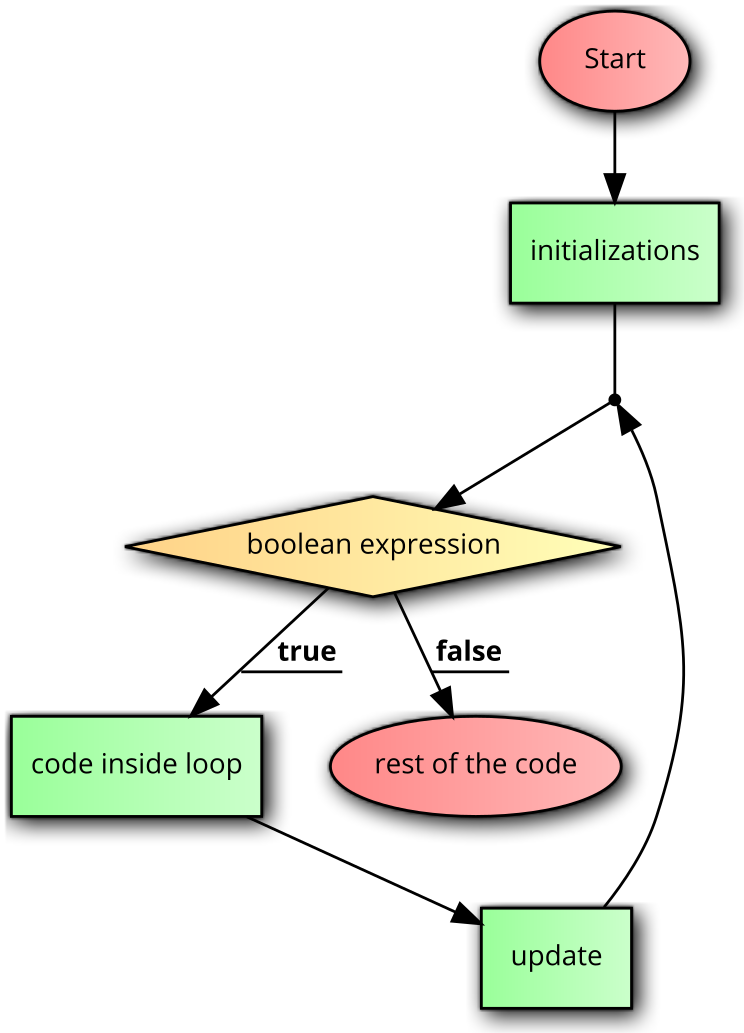
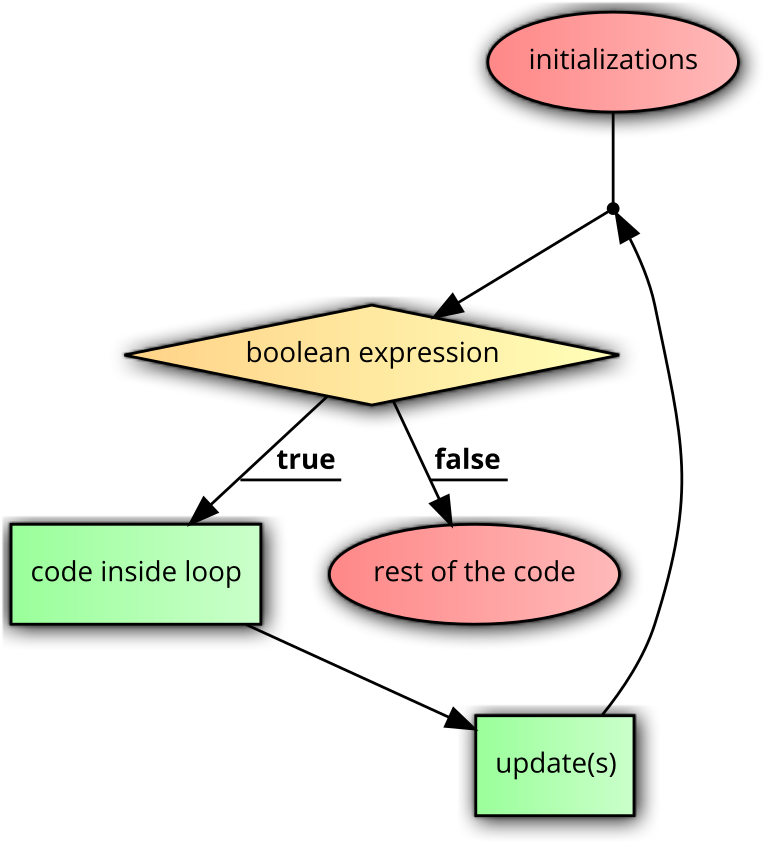
loops markdown updated. real-life scenarios to be completed

diff --git a/2 - loops/loops.md b/2 - loops/loops.md
@@ -7,7 +7,7 @@ Loops are similar to conditions except that after every iteration of the loop, t
 
 ```java
 while(boolean expression) {
-	loop code
+	code inside loop
 }
 rest of the code
 ```
@@ -17,175 +17,225 @@ rest of the code
 Example:
 
 ```java
-int x = 10;
-int result = 5;
-if(x > 8) {
-	result = result + 1;
+int a = 6;
+int result = 1;
+while(a > 0) {
+	result = result * a;
+	a = a - 1;
 }
-print(result);
+println(result);
 ```
 
-<center><img src="ifExample.png" style="width: 300px;"/></center>
+<center><img src="whileExample.png" style="width: 300px;"/></center>
 
 
-The above code executes the conditional code, increasing `result` by 1 and displaying the value 6.
+The above code executes the loop 6 times (for `a` = 6,5,4,3,2,1 but not for 0) each time multiplying the current value of `a` into `result` and the final value of `result` is 6\*5\*4\*3\*2\*1 = 720. 
 
-## An `if-else` condition
-An `if-else` condition executes the if-block if the expression is evaluated to `true` and the else-block if the expression is evaluated to `false`. The rest of code is executes after either case.
+There is a better way of tracing loops known as logic table construction. The logic table for the above example is given below.
+
+| a 	| a > 0 	| result      	|
+|---	|-------	|-------------	|
+| 6 	| true  	| 1\*6 = 6     	|
+| 5 	| true  	| 6\*5 = 30    	|
+| 4 	| true  	| 30\*4 = 120  	|
+| 3 	| true  	| 120\*3 = 360 	|
+| 2 	| true  	| 360\*2 = 720 	|
+| 1 	| true  	| 720\*1 = 720 	|
+| 0 	| false 	|             	|
+
+## Guidelines for constructing a logic table
+
+While constructing a logic table, one is strongly encouraged to follow the following steps:
+
+1. Identify all variables involved in the boolean expression in the loop header.
+2. Create columns for each of the variables identified in step 1.
+3. Create a column for the loop expression. Create multiple columns to simplify reaching the expression if complex. For example, if expression is `x==y && !z`, the variables involved are `x`, `y`, and `z` and the sub-expressions are `x==y` and `!z`.
+4. Create columns for each variable (**unless column for the variable already present**) modified in the loop (in the order they are modified). Don't create columns v
+
+### Example for constructing a logic table
 
 ```java
-if(boolean expression) {
-	if-block statements
+int a = 10, b = 2, c = 100;
+int result = 0;
+while(a > b || c > a) {
+	result = result + 1;
+	a = a - 1;
+	c = c / 2;
 }
-else {
-	else-block statements
-}
-rest of the code
 ```
 
-<center><img src="ifElseCondition.png" style="width: 300px;"/></center>
+| a  	| b 	| c   	| a > b 	| c > a 	| a > b && c > a 	| result  	|
+|----	|---	|-----	|-------	|-------	|----------------	|---------	|
+| 10 	| 2 	| 100 	| true  	| true  	| true           	| 0+1 = 1 	|
+| 9  	|   	| 50  	| true  	| true  	| true           	| 1+1 = 2 	|
+| 8  	|   	| 25  	| true  	| true  	| true           	| 2+1 = 3 	|
+| 7  	|   	| 12  	| true  	| true  	| true           	| 3+1 = 4 	|
+| 6  	|   	| 6   	| true  	| false 	| false          	|         	|
+
+Note that we don't have columns for `a` and `c` again even though they are modified inside the loop because columns for those variables are already present in the table by virtue of step 2.
+
+## for-loop
+
+A for-loop is more compact than the while loop and *usually* more common in real-life applications.
+
+```java
+for(initializations; boolean expression; update(s)) {
+  code inside loop;
+}
+rest of the code;
+```
+
+<center><img src="forLoop.png" style="width: 300px;"/></center>
 
 Example:
 
 ```java
-int x = 13;
-boolean isEven;
-if(x % 2 == 0) {
-  isEven = true;
+int result = 0;
+for(int i=1; i <= 16; i*=2) {
+  result = result + i;
 }
-else {
-  isEven = false;
-}
-println(isEven);
+println(result);
 ```
 
-<center><img src="ifElseExample.png" style="width: 250px;"/></center>
+Trace (logic table):
 
-The else-block is executed in the above code, `isEven` becomes `false`, and is displayed on the console.
+| i  	| i<=16 	| result     	|
+|----	|-------	|------------	|
+| 1  	| true  	| 0+1 = 1    	|
+| 2  	| true  	| 1+2 = 3    	|
+| 4  	| true  	| 3+4 = 7    	|
+| 8  	| true  	| 7+8 = 15   	|
+| 16 	| true  	| 15+16 = 31 	|
+| 32 	| false 	|            	|
+
+## Nesting of control structures
+
+Control structures are literally like lego blocks, you can arrange them as you want, depending on the situation. So you can put loops/conditions inside other loops/conditions (and then more loops/conditions inside that and so on).
+
+Let's take some examples of a situation where such nesting is required.
+
+### Nesting scenario 1
+
+We would like to generate a pattern based on input integer `N > 0`
 
 
-##Exercises for conditions
+`N=4`
 
-### EXERCISE 1
+```
+^
+^ ^
+^ ^ ^
+^ ^ ^ ^ 
+```
 
-Draw a flowchart for the following code and determine the values of `a, b, c` after the code executes.
- 
+<p>&nbsp;<p>
+
+`N=6`
+
+```
+^
+^ ^
+^ ^ ^
+^ ^ ^ ^ 
+^ ^ ^ ^ ^ 
+^ ^ ^ ^ ^ ^ 
+```
+
+**STEP 1:** There are `N` lines.
+
+Outer loop - 
+
 ```java
-int a = 5, b = 2, c = 10;
-if(a < b) {
-	if(c == a) {
-		c = c + 1;
-	}
-}
-else {
-	if(b < c) {
-		b = c - a;
-	}
-	else {
-		a = 0;
-	}
+for(int i=1; i<=N; i++) {
+	display current line
+	change line using println(); 
 }
 ```
 
-### EXERCISE 2
+**STEP 2:** Line corresponding to a given value of `i` has `i` caps 
 
-Write a piece of code for the following flowchart and determine the values of `a, b, c` after the code executes.
+(when `i = 1`, there is 1 cap, when `i = 2` there are 2 caps, and so on ...).
 
+Inner loop - 
 
-<center><img src="nestedIfElseExercise.png" style="width: 250px;"/></center>
-
-##Coding to a truth table
-
-A truth table is one that gives us the required output for some given inputs. For example, in the following table, for inputs `x` and `y`, the desired values for `exp` are provided.
-
-| x     | y     | exp   |
-|-------|-------|-------|
-| false | false | false |
-| false | true  | true  |
-| true  | false | true  |
-| true  | true  | false |
-
-It can be seen that `exp` is `true` when,
-
-- `x = true` and `y = false`, or,
-- `x = false` and `y = true`
-
-We can write this as,
-
-```
-exp = (x && !y) || (!x && y)
+```java
+for(int k=1; k<=i; k++) {
+	print("^");
+}
 ```
 
-However, you can see that `exp` is `true` only when `x` and `y` hold different values. So we can also write a simpler expression as,
+**COMPLETE SOLUTION**
 
-```
-exp = (x!=y);
-```
-
-Consider the following scenario: we are given three boolean inputs `a, b, c`. We want an output value `d` based on the following truth table:
-
-| a     | b     | c     | exp   |
-|-------|-------|-------|-------|
-| false | false | false | true  |
-| false | false | true  | true  |
-| false | true  | false | false |
-| false | true  | true  | false |
-| true  | false | false | false |
-| true  | false | true  | false |
-| true  | true  | false | false |
-| true  | true  | true  | true  |
-
-When is `exp = true`? In the following cases:
-
-- `a = false, b = false, c = false`
-- `a = false, b = false, c = true `
-- `a = true, b = true, c = true `
-
-The first and third conditions can be combined as
-
-```
-a == b && b == c
+```java
+for(int i=1; i<=N; i++) {
+	for(int k=1; k<=i; k++) {
+		print("^");
+	}
+	println(); 
+}
 ```
 
-The second condition is
+### Nesting scenario 2
+
+Change the above output so that the symbols alternate between ^ and - between lines.
+
+`N=6`
 
 ```
-!a && !b && c
+^
+- -
+^ ^ ^
+- - - - 
+^ ^ ^ ^ ^
+- - - - - -
 ```
 
-Thereby our overall expression is,
+The difference from scenario 1 is that if counter is an odd number, it's a cap (`^`) while if the counter is an even number, it's a dash (`-`).
+
+So the earlier display statement
 
 ```
-exp = (a==b &&b==c) || (!a && !b && c)
+print("^");
 ```
 
-Of course, there are better ways to optimize expression building, but for our purpose, this is sufficient.
+will change to,
+
+```
+if(i%2 == 1) { //odd counter: cap
+	print("^");
+}
+else { //even counter: dash
+	print("-");
+}
+```
+
+**COMPLETE SOLUTION**
+
+```java
+for(int i=1; i<=N; i++) {
+	for(int k=1; k<=i; k++) {
+		if(i%2 == 1) { //odd counter: cap
+			print("^");
+		}
+		else { //even counter: dash
+			print("-");
+		}
+	}
+	println(); 
+}
+```
 
 ## Coding in the real world
 
-When will the requirements be as clearly stated as a truth table? *Almost never!*
-
-We need to code to vague/abstract/hazy requirements and in this section, we'll take a look as such scenarios.
+Just like in conditions, lets see some real-world scenarios where we need to use loops.
 
 ### SCENARIO 1
 
-There are students enrolled in degrees and can graduate if they are enrolled in a non-honors undergraduate course and have completed 72 credit points or more, or enrolled in an honors course and have completed 96 credit points or more, or if they are enrolled in a postgraduate program and have completed 48 credit points or more. Write a piece of code that determines if a specific student is eligible to graduate or not. You may assume that the following inputs are available:
-
-1. Course in which student is enrolled: `String`. Can be either "UG"/ "UG (Hons)"/ "PG"
-2. Number of credit points completed: `int`.
+TODO
 
 ### SCENARIO 2
 
-A website offers discounts based on item categories and quantities. There are four categories - A, B, C, and D. For all categories except D, the following rules exist,
-
-- Less than 2 items: no discount
-- Between 2 and 5 items: 15% discount
-- Between 6 and 10 items: 25% discount
-- More than 10 items: 30% discount
-
-
-For category D, there is a 1% discount for every item purchased, up to a maximum of 50 items (and hence a maximum of 50% discount).
-
+TODO
 
 ### SCENARIO 3
 
